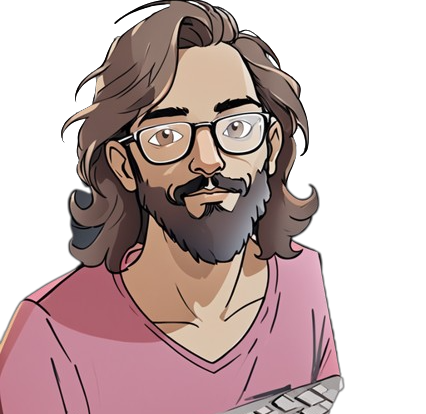
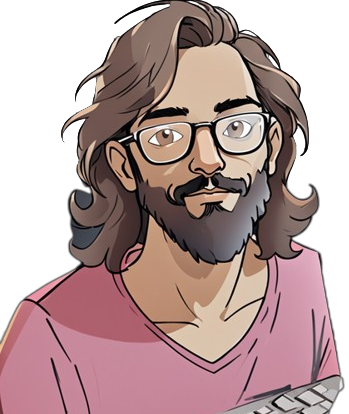
fixing responsive design

diff --git a/src/App.css b/src/App.css
@@ -25,6 +25,7 @@
 /***  HOME SECTION ****/
 .home__section{
     padding: 7rem;
+    width: 100vw;
     display: grid;
     grid-template-columns: repeat(2,1fr);
 }
@@ -53,8 +54,7 @@
     font-size: 1.1rem;
     width: 44ch;
     line-height: 1.3;
-    letter-spacing: 1px;
-    
+    letter-spacing: 1px; 
 }
 
 .home__contact_list{
@@ -96,17 +96,21 @@
 .home__avatar{
     display: flex;
     justify-content: center;
+    padding-top: 2rem;
+    padding-left: 2rem;
 }
 .avatar_img{
-    width: 430px;
-    height: 430px;
+    max-width: 380px;
+    width: 100%;
+    aspect-ratio: 1;
 }
 
 
 
 /*** PROJECTS SECTION ***/
 .projects__section{
-    padding: 1rem 7rem;
+   width: 100vw;
+   padding: 0 7rem;
 }
 .projects__section_title{
     font-size: 2.5rem;
@@ -114,17 +118,20 @@
 }
 .projects__container{
     display: grid;
-    grid-template-columns: repeat(auto-fit,400px);
+    grid-template-columns: repeat(auto-fit,minmax(400px,1fr));
     gap: 3rem;
     row-gap: 2rem;
     justify-content: center;
+    align-items: center;
 }
 
 /*** PROJECT CARD ***/
 
 .projectCard{
-    width: 400px;
+    min-width: 400px;
+    max-width: 600px;
     background-color: #031221;
+    margin: auto;
 }
 .projectCard__header{
     height: 300px;
@@ -204,6 +211,7 @@
     display: flex;
     justify-content: space-around;
     padding: 1.5rem 0;
+    width: 100vw;
 }
 .footer__farewell__container{
     display: grid;
@@ -220,4 +228,49 @@
 .footer__contact_list{
     display: flex;
     gap: 1.5rem;
+}
+
+@media screen and (max-width:1023px) {
+    .home__section{
+        padding-bottom: 3rem;
+    }
+    .home__avatar{
+        width: 280px;
+        margin: auto;
+    }
+    .home__section{
+        grid-template-columns: repeat(1,1fr);
+    }
+}
+
+@media screen and (max-width:767px) {
+    .home{
+        width:380px;
+    }
+    .home__section{
+        padding: 4rem 2.5rem;
+    }
+    .home__profesion,
+    .home__profesion_decoration{
+        font-size: 1.5rem;
+    }
+    .home__description{
+        font-size: 1.1rem;
+        width: 40ch;
+    }
+    .home__contact_list{
+        gap: 2.5rem;
+    }
+    .footer__farewell__container{
+        max-width: 300px;
+    }
+}
+
+@media screen and (max-width:320px) {
+    .home__section{
+        padding: 4rem 1rem;
+    }
+    .projects__section{
+        padding: 0 1rem;
+     }
 }

diff --git a/src/components/Projects.jsx b/src/components/Projects.jsx
@@ -35,7 +35,7 @@ const Projects = () => {
               title='Tieda academlo' 
               imgProject = '/registroDeUsuarios.png'
               descriptionProject=' Tieda academlo es una experiencia de compra en línea diseñada para los amantes de la moda y las tendencias. Puedes explorar una amplia gama de prendas de vestir de alta calidad y estilo, todo desde la comodidad de tu hogar.'
-              technologies={["React","Api","Html","JavaScript","Css"]}
+              technologies={["Html","JavaScript","Css"]}
               linkDeploy='https://ecommercebruno.netlify.app/'
               linkCode='https://github.com/Brunopradoguevara/my-first-ecommerce'
             />

diff --git a/src/App.jsx b/src/App.jsx
@@ -9,7 +9,7 @@ import Projects from './components/Projects'
 function App() {
 
   return (
-   <>
+   <div className='portfolio'>
     <header>
       <Navbar/>
     </header>
@@ -19,7 +19,7 @@ function App() {
       <AboutMe/>
     </main>
     <Footer/>
-   </>
+   </div>
   )
 }
 

diff --git a/src/index.css b/src/index.css
@@ -5,8 +5,6 @@
   box-sizing: border-box;
   margin: 0;
   padding: 0;
-  /* color: #FA3879; */
-  /* color: #64ffda; */
   color: white;
   font-family: 'Lato', sans-serif;
   /* font-family: 'Space Grotesk', sans-serif; */
